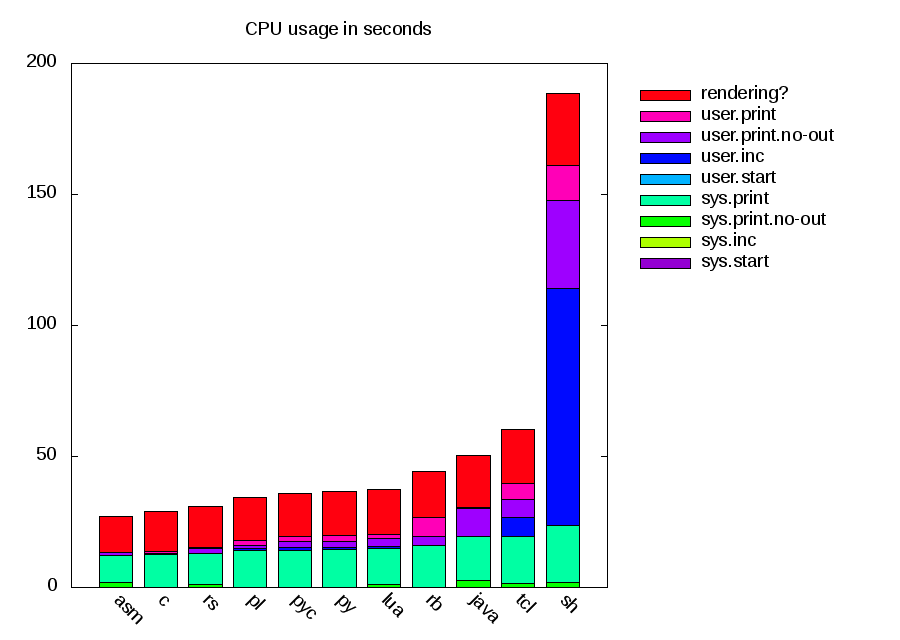
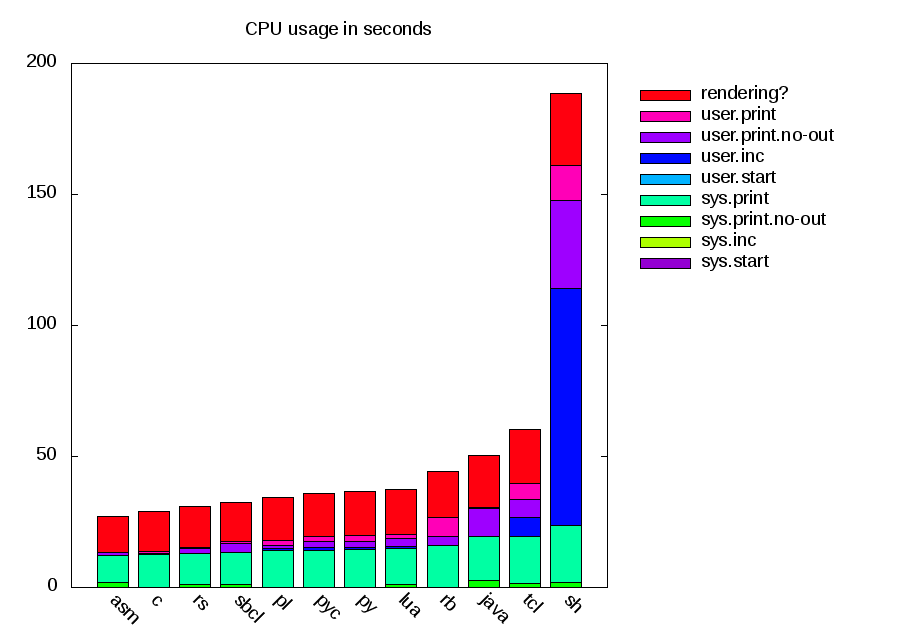
add SBCL/Steel Bank Common Lisp to benchmarked languages

Changed region(s): [[0.0933, 0.1562, 0.6533, 0.9688]]

diff --git a/README.rst b/README.rst
@@ -26,6 +26,7 @@ Languages looked at:
 * Java
 * Tcl
 * Bash
+* Steel Bank Common Lisp
  
 Platform is some quite powerful Linux laptop with
 lots of RAM bought in 2012.
@@ -98,6 +99,7 @@ lang        real      user       sys
 asm       27.095     1.000    12.060
 c         28.911     1.112    12.756
 rs        30.812     2.396    13.060
+sbcl      32.443     4.216    13.376
 pl        34.397     3.824    14.032
 pyc       35.823     5.048    14.288
 py        36.752     5.376    14.540
@@ -125,6 +127,7 @@ rs         2.821     1.840     0.976
 pl         1.865     1.860     0.004
 pyc        3.133     3.128     0.000
 py         3.009     3.004     0.004
+sbcl       4.404     3.356     1.044
 lua        5.271     4.112     1.156
 rb         3.564     3.556     0.004
 java      12.668    10.644     2.516
@@ -139,6 +142,7 @@ Execution time for increment
 ======   =======   =======   =======
 lang        real      user       sys
 ======   =======   =======   =======
+sbcl       0.011     0.008     0.000
 asm        0.057     0.056     0.000
 c          0.027     0.024     0.000
 rs         0.046     0.044     0.000
@@ -163,6 +167,7 @@ asm        0.000     0.000     0.000
 c          0.001     0.000     0.000
 rs         0.001     0.000     0.000
 pl         0.003     0.004     0.000
+sbcl       0.005     0.004     0.000
 pyc        0.018     0.012     0.004
 py         0.026     0.024     0.000
 lua        0.002     0.000     0.000
